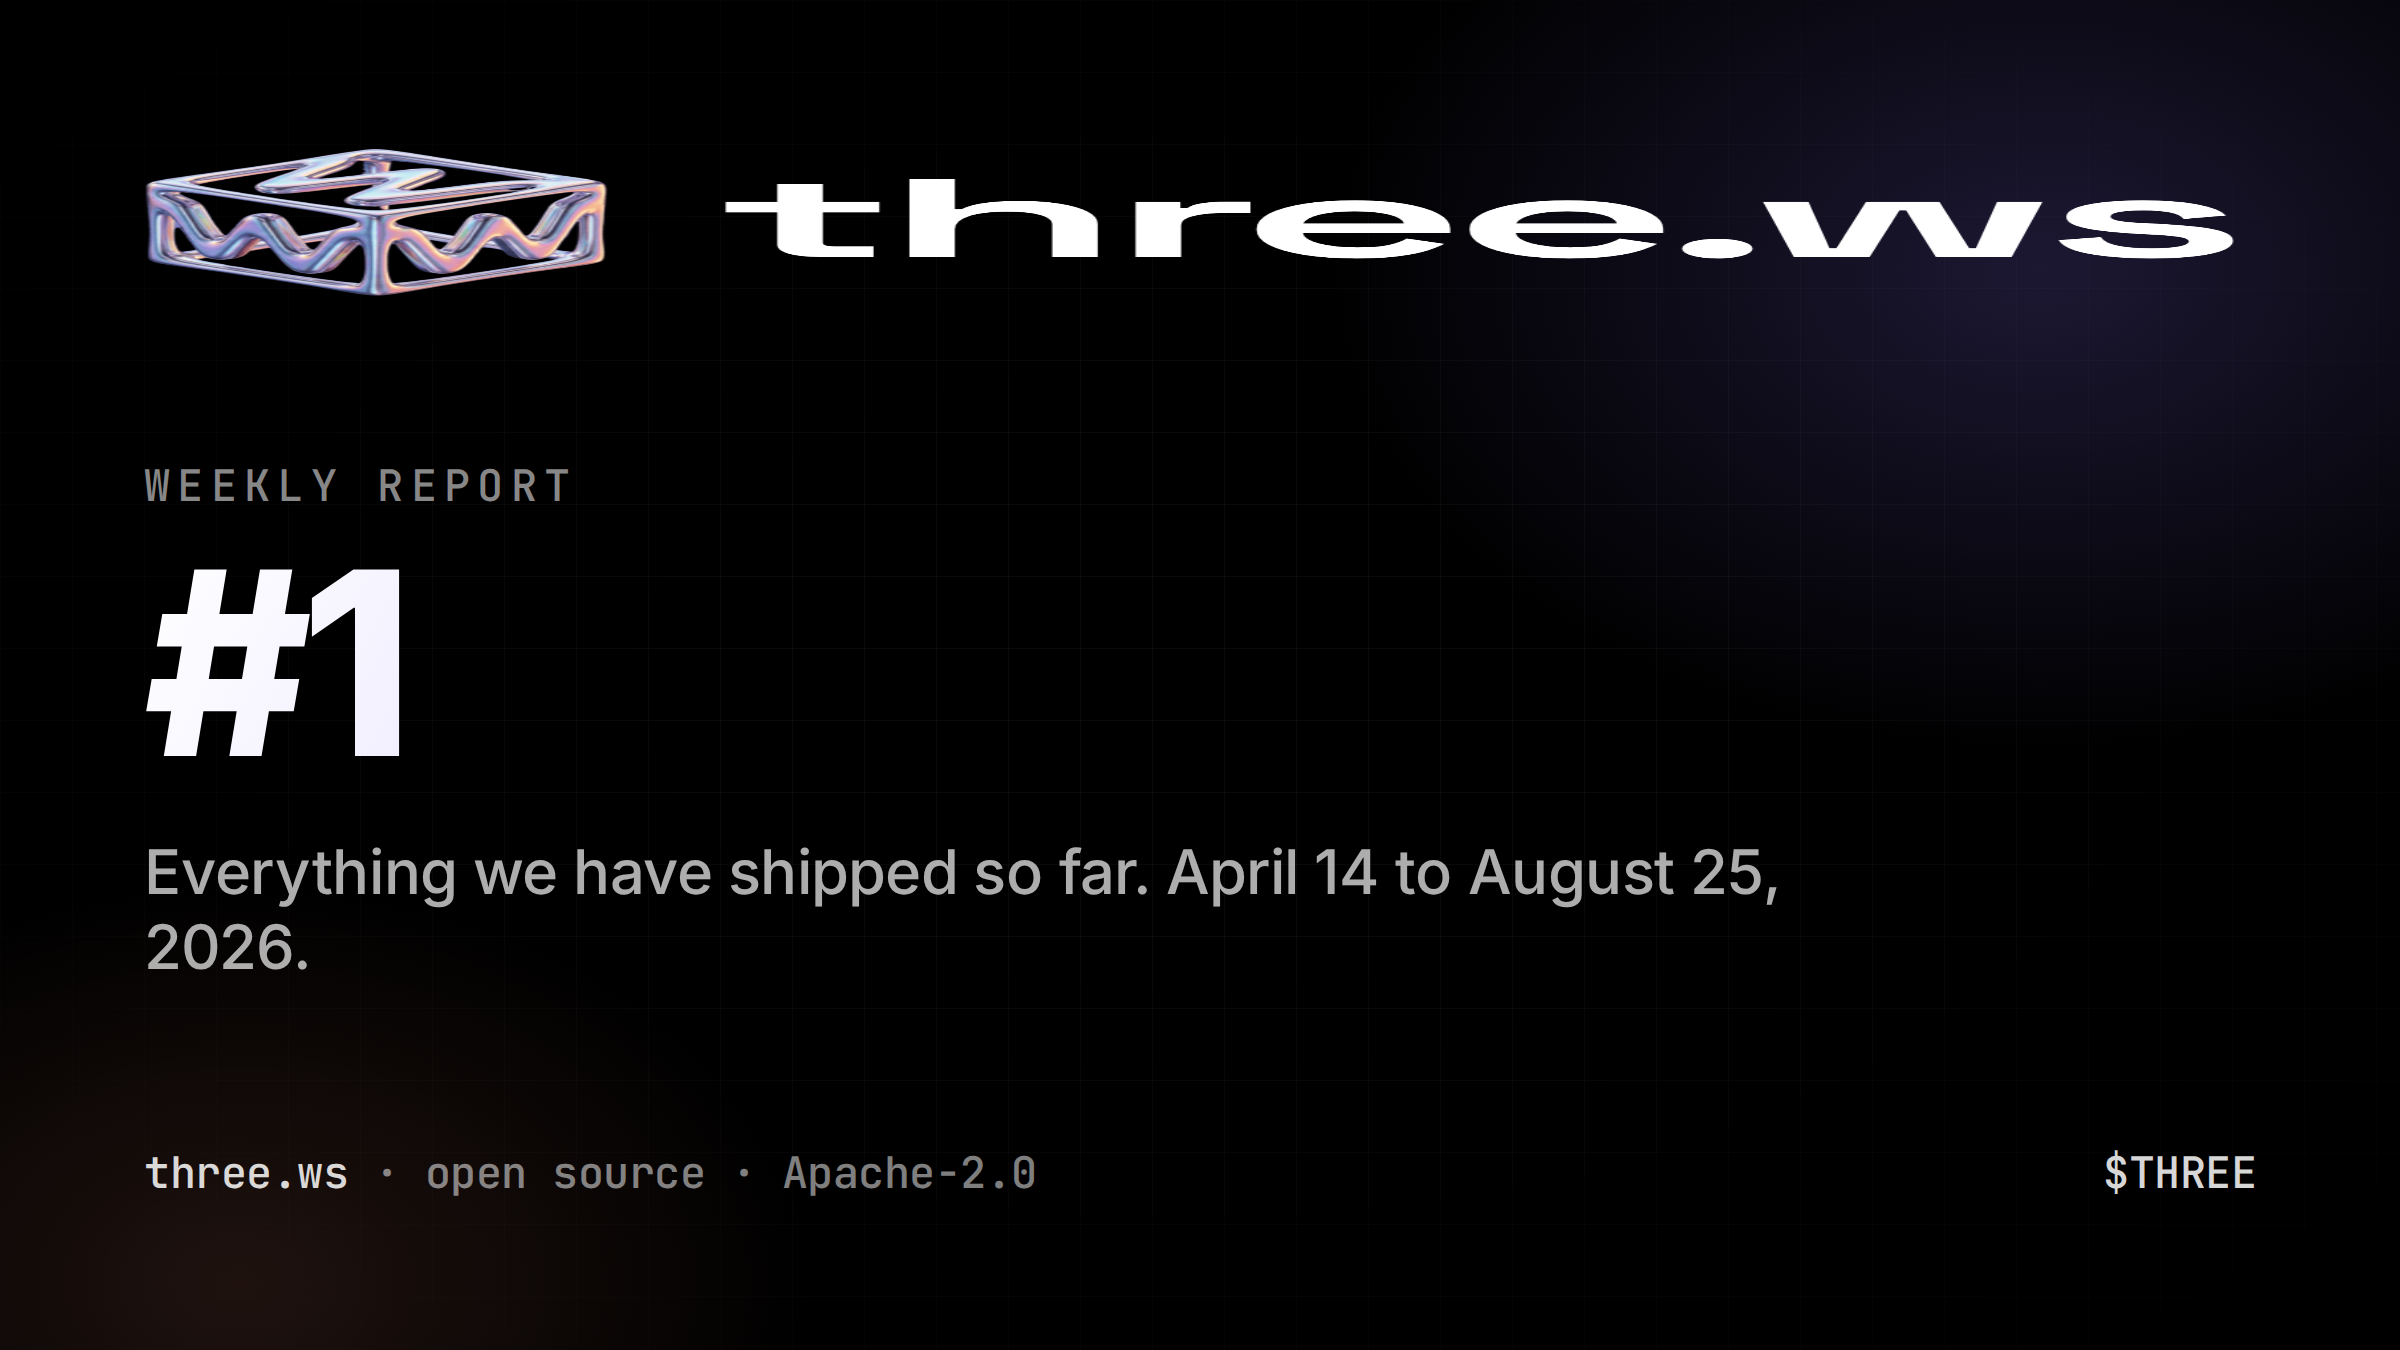
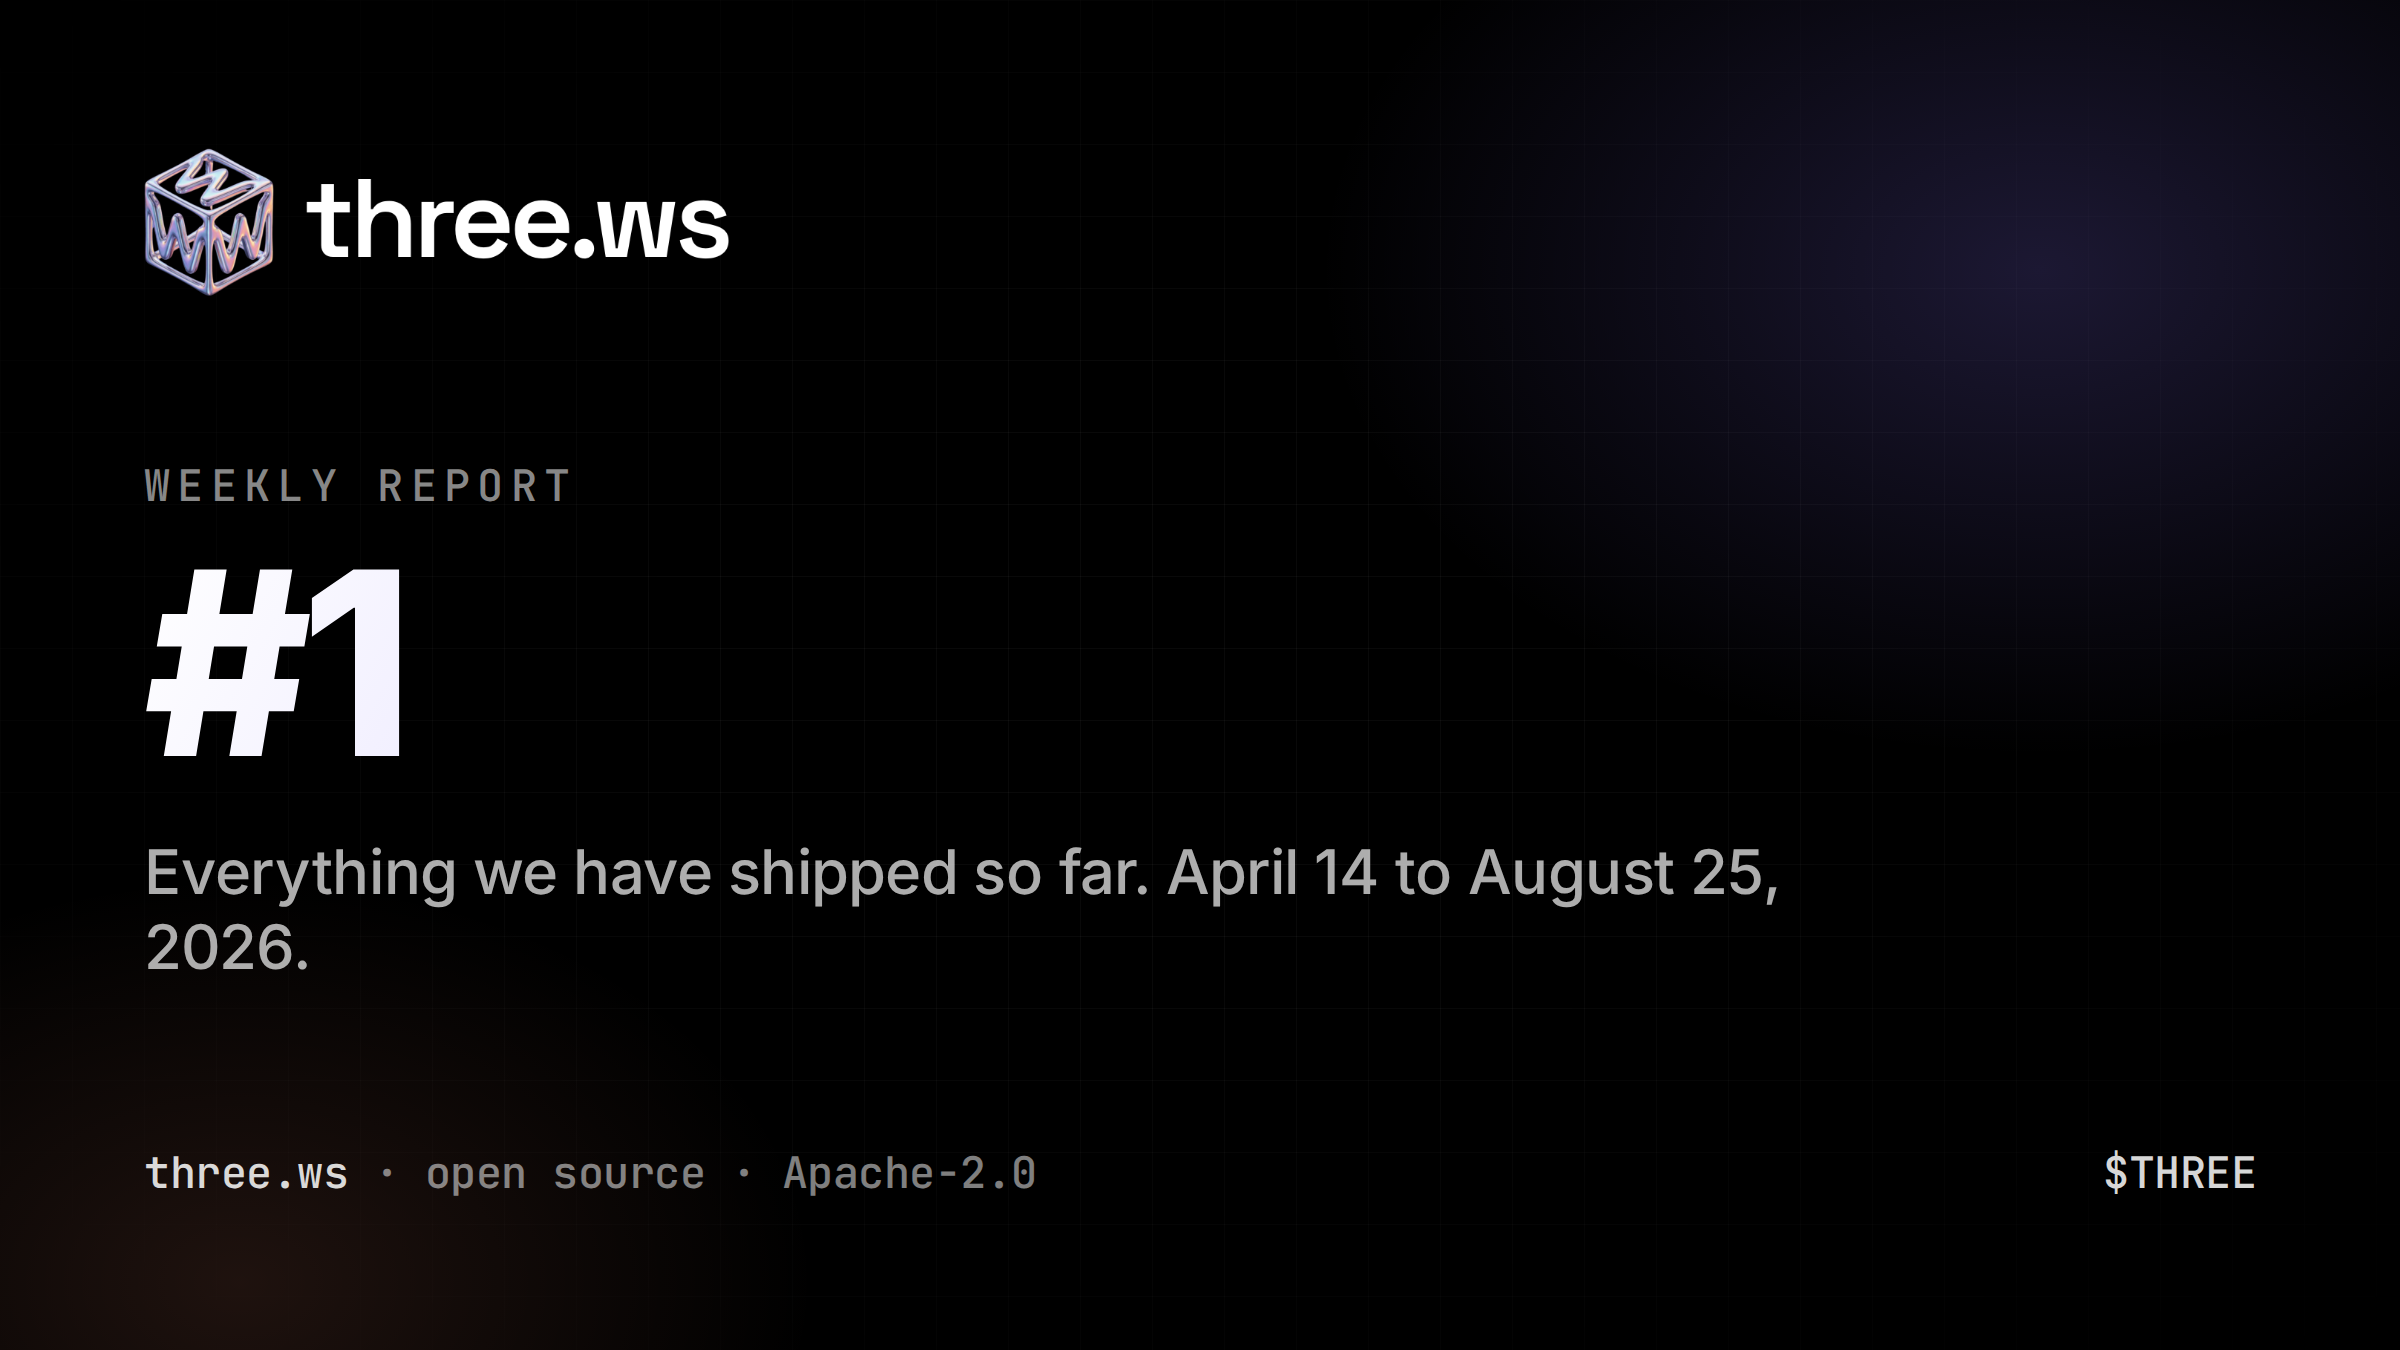
feat(marketing): render a clean black-background X Article header for Weekly Report #1 and keep the lockup at its true aspect ratio
Adds scripts/render-weekly-report-header.mjs, which renders the three.ws
lockup on black with the report number and date range into a 2:1 cover
(header-x-article.png) and a 16:9 cut (header-16x9.png). The lockup is
pinned to align-self:flex-start so the flex column no longer stretches
it to full width, and the image kit README documents both files.

Changed region(s): [[0.0625, 0.0933, 0.4375, 0.2178], [0.4375, 0.1244, 0.9375, 0.2178]]

diff --git a/marketing/weekly-report-1/README.md b/marketing/weekly-report-1/README.md
@@ -2,6 +2,11 @@
 
 Screenshots of live three.ws surfaces captured from https://three.ws on 2026-08-25 at 1440x900, 2x device scale, for the X Article "three.ws Weekly Report #1" (`docs/weekly-report-1.md`). Regenerate with `node scripts/render-weekly-report-shots.mjs`.
 
+Header images for the X Article cover, rendered by `node scripts/render-weekly-report-header.mjs 1`:
+
+- header-x-article.png: 2400x1200 (2:1), black background, three.ws lockup, "Weekly Report #1". Use this as the article cover.
+- header-16x9.png: 2400x1350 (16:9) cut of the same header for the announcing post.
+
 The article marks each insertion point with `[IMAGE: name.png]`. Suggested caption per file:
 
 - home.png: the homepage, text-to-3D in the hero, live avatar on the right.
